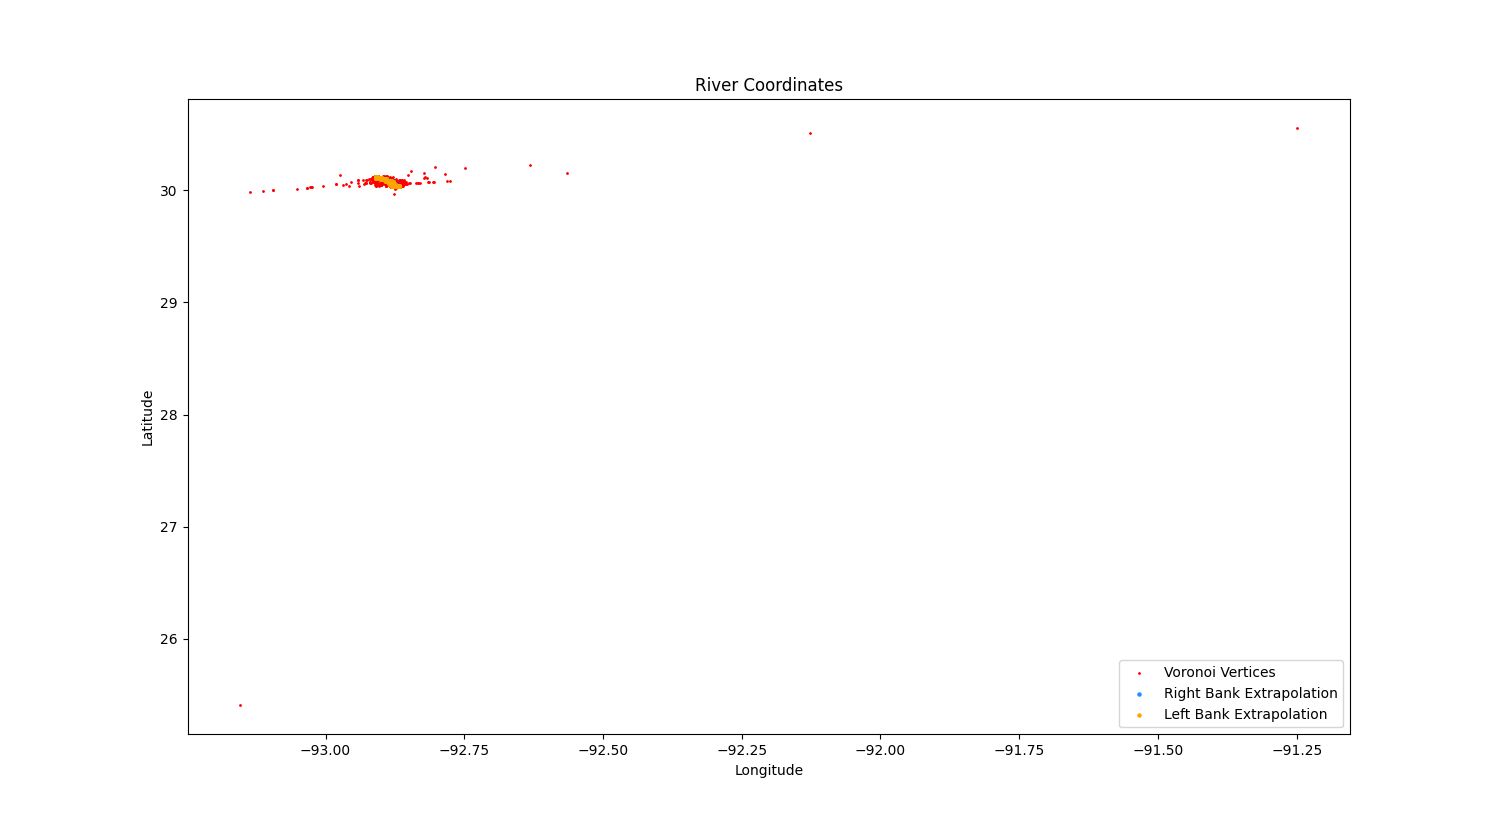
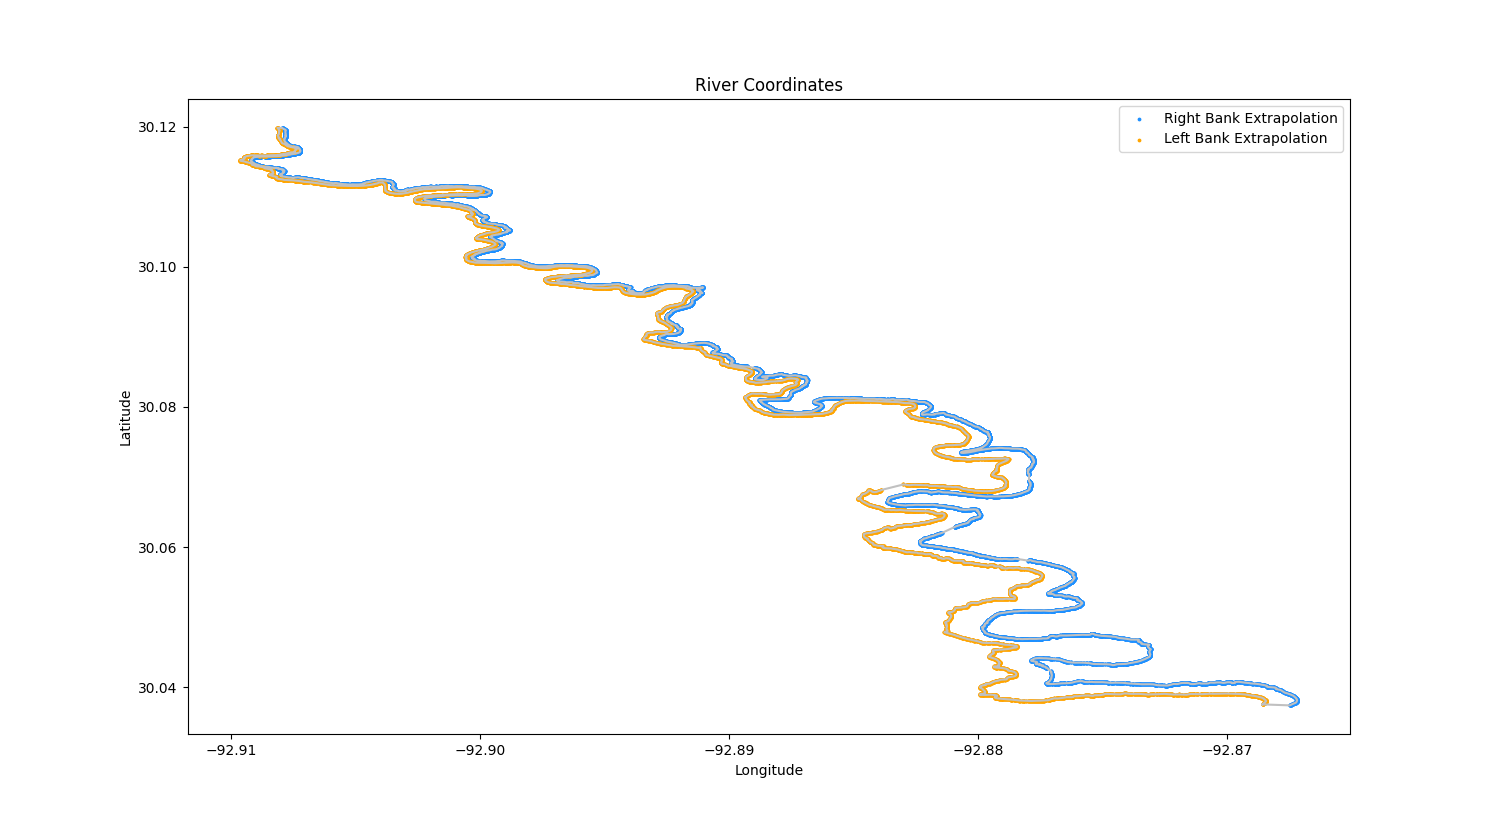
shapely polygon based on river banks

diff --git a/river_centerline_width.py b/river_centerline_width.py
@@ -1,11 +1,14 @@
 # Find the center point and width between lat/long points along river bank
 import math
 import csv
+import itertools
 
 import matplotlib.pyplot as plt
+from matplotlib.patches import Polygon as mat_poly
 import numpy as np
 import pandas as pd
 from scipy.spatial import Voronoi, voronoi_plot_2d
+from shapely.geometry import Point, Polygon
 
 ########################################################################
 
@@ -44,20 +47,38 @@ def expand_list(lst, expand_n):
 	expand_n += 2 # Add two points, to account for the start/end point
 	bank_expanded = []
 	for i in range(len(lst)):
-		bank_expanded.append(lst[i])
 		if i+1 < len(lst):
 			x_expand = np.linspace(lst[i][0], lst[i+1][0], expand_n)
 			y_expand = np.linspace(lst[i][1], lst[i+1][1], expand_n)
 			for j in range(len(x_expand)):
 				bank_expanded.append([x_expand[j],y_expand[j]])
 			bank_expanded.append(lst[i+1])
+		else: 
+			bank_expanded.append(lst[i])
 	return bank_expanded
+
+def generatePolygon(left_bank_lst, right_bank_list):
+	# Return a shapely polygon based on the position of the river bank points
+	circular_list_of_banks = left_bank_expanded + right_bank_expanded[::-1] + [left_bank_expanded[0]]
+
+	bank_points_swapped = []
+	for i, bank_point in enumerate(circular_list_of_banks):
+		bank_points_swapped.append([bank_point[1], bank_point[0]]) # Swap the x and y to graph with longitude on the y-axis
+
+	river_polygon = Polygon(bank_points_swapped)
+
+	if not river_polygon.is_valid:
+		print("Invalid Polygon needs to be corrected")
+		exit()
+
+	return river_polygon
 
 ########################################################################
 
 def plotRiver(river_df, 
 			latitude_extrapolation, longitude_extrapolation,
 			right_bank_expanded, left_bank_expanded,
+			river_bank_polygon,
 			save_plot_name):
 
 	# Plot river based on right/left bank coordinates
@@ -74,22 +95,27 @@ def plotRiver(river_df,
 	vor = Voronoi(all_banks_points)
 	vor_vertices = vor.vertices # Voronoi vertices
 	vor_regions = vor.regions  # Voronoi regions: each sub-list contains coordiantes for the regions
-	plt.scatter(vor_vertices[:,1],vor_vertices[:,0], c="red", s=1, label="Voronoi Vertices")
+	#plt.scatter(vor_vertices[:,1],vor_vertices[:,0], c="red", s=1, label="Voronoi Vertices")
 	#voronoi_plot_2d(vor, show_points=True, point_size=1, ax=ax)
 
+	# Plot River as a Polygon
+	plt.plot(*river_bank_polygon.exterior.xy, c="silver")
+	#ax.add_patch(mat_poly(right_bank_expanded+left_bank_expanded, closed=True, facecolor='red'))
+
 	# Plot colored extrapolations between known points
+	scatter_plot_size = 3
 	x = []
 	y = []
 	for i in right_bank_expanded: 
 		x.append(i[1])
 		y.append(i[0])
-	plt.scatter(x, y, c="dodgerblue", s=5, label="Right Bank Extrapolation")
+	plt.scatter(x, y, c="dodgerblue", s=scatter_plot_size, label="Right Bank Extrapolation")
 	x = []
 	y = []
 	for i in left_bank_expanded: 
 		x.append(i[1])
 		y.append(i[0])
-	plt.scatter(x, y, c="orange", s=5, label="Left Bank Extrapolation")
+	plt.scatter(x, y, c="orange", s=scatter_plot_size, label="Left Bank Extrapolation")
 
 	plt.title("River Coordinates")
 	plt.xlabel("Longitude")
@@ -102,7 +128,7 @@ def plotRiver(river_df,
 if __name__ == "__main__":
 	#convertColumnsToCSV("data/river_coords.txt")
 	df = pd.read_csv("data/river_coords.csv")
-	#df = df.head(100)
+	#df = df.head(3)
 	#df = df.loc[100:510]
 
 	# Lines between points on graph
@@ -118,11 +144,16 @@ if __name__ == "__main__":
 		if not math.isnan(row.llat) and not math.isnan(row.llon):
 			left_bank_pairs.append([row.llat, row.llon])
 
-	additional_points_between_each_pair = 3 # User defined
+	# Add points between existing bank points
+	additional_points_between_each_pair = 0 # User defined: 0 only uses the original points
 	right_bank_expanded = expand_list(right_bank_pairs, additional_points_between_each_pair)
 	left_bank_expanded =  expand_list(left_bank_pairs, additional_points_between_each_pair)
+
+	# Set up a polygon based on the left and right bank
+	river_polygon = generatePolygon(left_bank_expanded, right_bank_expanded)
 
 	# Plot river banks
 	plotRiver(df, latitude_points, longitude_points,
 			right_bank_expanded, left_bank_expanded,
+			river_polygon,
 			 "data/river_coords.png")

diff --git a/README.md b/README.md
@@ -1,2 +1,3 @@
 # river-geometry
-cmgo
+
+![river_coords+png](https://raw.githubusercontent.com/cyschneck/river-geometry/main/data/river_coords.png)
